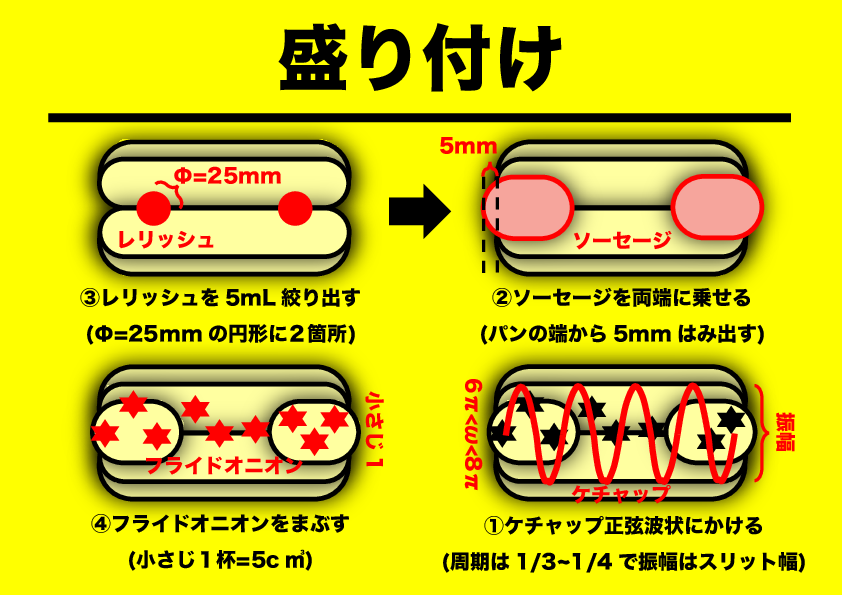
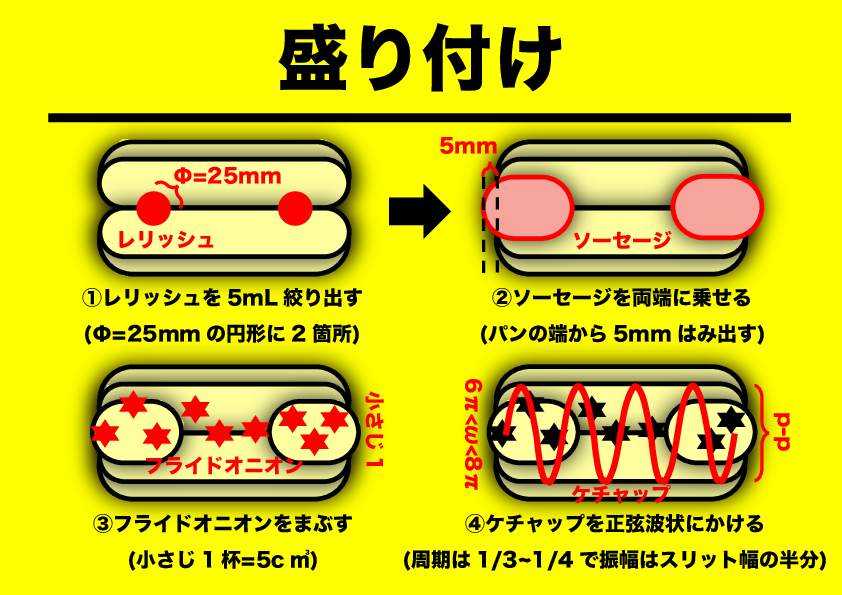
誤り修正

diff --git a/README.md b/README.md
@@ -39,7 +39,7 @@
    1. **皮側を上に向ける**
    2. ソーセージがパンの端から5mm程度**はみ出てる**ように見えるように <br> <img src="./images/IMG_2276.jpeg" height="160px">
 6. フライドオニオンを小さじ1杯、スリット面の上に振りかける <br> <img src="./images/IMG_2277.jpeg" height="160px"> <img src="./images/IMG_2278.jpeg" height="160px"> <img src="./images/IMG_2279.jpeg" height="160px">
-7. ケチャップをスリット面の上に周期1/3〜1/4、振幅はスリット面の幅となるような正弦波でかけて、完成 <br> <img src="./images/IMG_2280.jpeg" height="160px"> <img src="./images/IMG_2281.jpeg" height="160px">
+7. ケチャップをスリット面の上に周期1/3〜1/4、振幅はスリット幅の半分（p-pがスリット幅）となるような正弦波でかけて、完成 <br> <img src="./images/IMG_2280.jpeg" height="160px"> <img src="./images/IMG_2281.jpeg" height="160px">
 8. お客様から見えない、邪魔にならない、衛生的な場所に移動させる
 
 ### Step 3: 受け渡し
